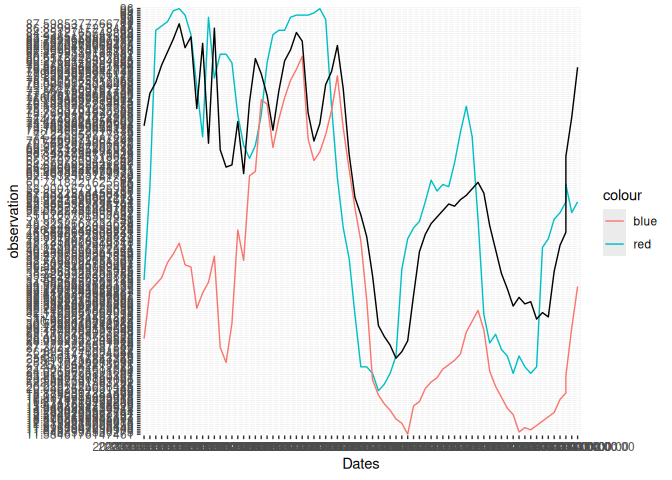
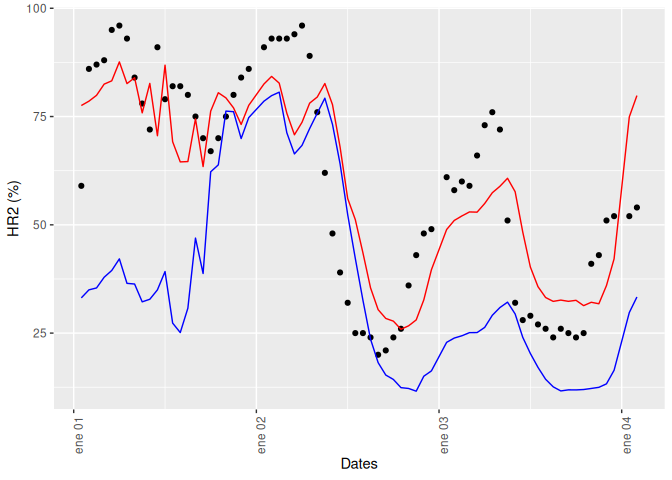
Post updated

diff --git a/_posts/2024-12-04-Relative-humidity-calibration.md b/_posts/2024-12-04-Relative-humidity-calibration.md
@@ -201,7 +201,7 @@ ml.model$coefficients
 ```
 
     ##   (Intercept)        T2.wrf       HR2.wrf     SMOIS.wrf magViento.wrf 
-    ##    334.795881     -1.239779      0.546299  -1784.360575     -2.355755
+    ##   335.6209853    -1.2396806     0.5468009 -1790.6835541    -2.3568181
 
 Now, the parameters can be used to evaluate the model in any dataset.
 Here it is applied to the same training period:
@@ -219,10 +219,18 @@ function only works with daily data, in this case the data is hourly.
 So, the ggplot function will be use to visualize the results:
 
 ``` r
-figure <- ggplot(data = train.eval[[1]]) +
-  geom_line(aes(Dates, observation, colour = "red"), group = 1) +
-  geom_line(aes(Dates, model, colour = "blue"), group = 1) +
-  geom_line(aes(Dates, guidance), group = 1)
+data.to.plot <- as_tibble(train.eval[[1]])
+data.to.plot$Dates <- as.POSIXct(data.to.plot$Dates, format = "%Y-%m-%d %H:%M:%S")
+data.to.plot$observation <- as.numeric(data.to.plot$observation)
+data.to.plot$model <- as.numeric(data.to.plot$model)
+data.to.plot$guidance <- as.numeric(data.to.plot$guidance)
+
+figure <- ggplot(data = data.to.plot) +
+  geom_point(aes(Dates, observation), col = "black") +
+  geom_line(aes(Dates, model), col = "blue") +
+  geom_line(aes(Dates, guidance), col = "red") +
+  theme(axis.text.x = element_text(angle = 90, hjust = 1)) +
+  labs(y = "HR2 (%)")
 
 print(figure)
 ```
@@ -230,15 +238,17 @@ print(figure)
 ![](../Page04_awswrfsmn_files/figure-gfm/unnamed-chunk-14-1.png)<!-- -->
 
 The second element of the list has the statistics parameters of the
-calibration: –\>
+calibration:
 
 ``` r
 train.eval[[2]]
 ```
 
     ##              rmse       nash      corr       KGE
-    ## Model    30.71986 -0.5713277 0.6174308 0.2846954
-    ## Guidance 14.34912  0.6571698 0.8106601 0.7322329
+    ## Model    30.71934 -0.5712752 0.6173922 0.2847963
+    ## Guidance 14.34570  0.6573333 0.8107610 0.7323756
+
+POST WILL CONTINUE….
 
 <!-- ## Calibration of evaporation soil model output for a verification dataset -->
 <!-- The parameters of the previous section now are applied to the data.verification period. This period will be defined from 2017-01-01 to 2017-12-31. Then, the statistics parameters of the calibration in this dataset are shown: -->
